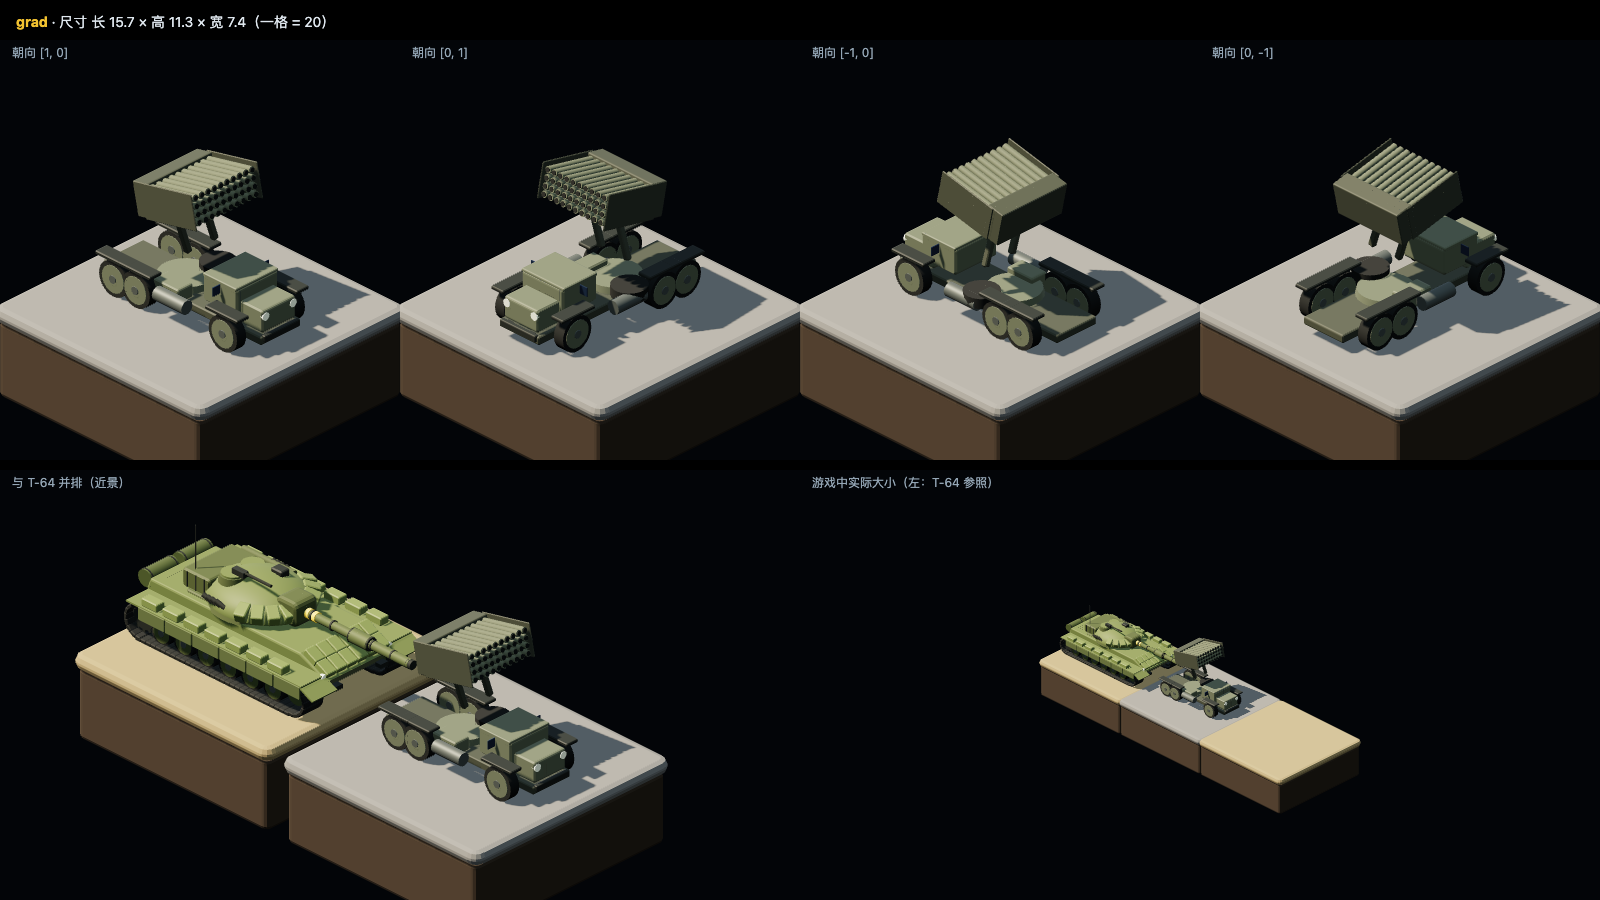
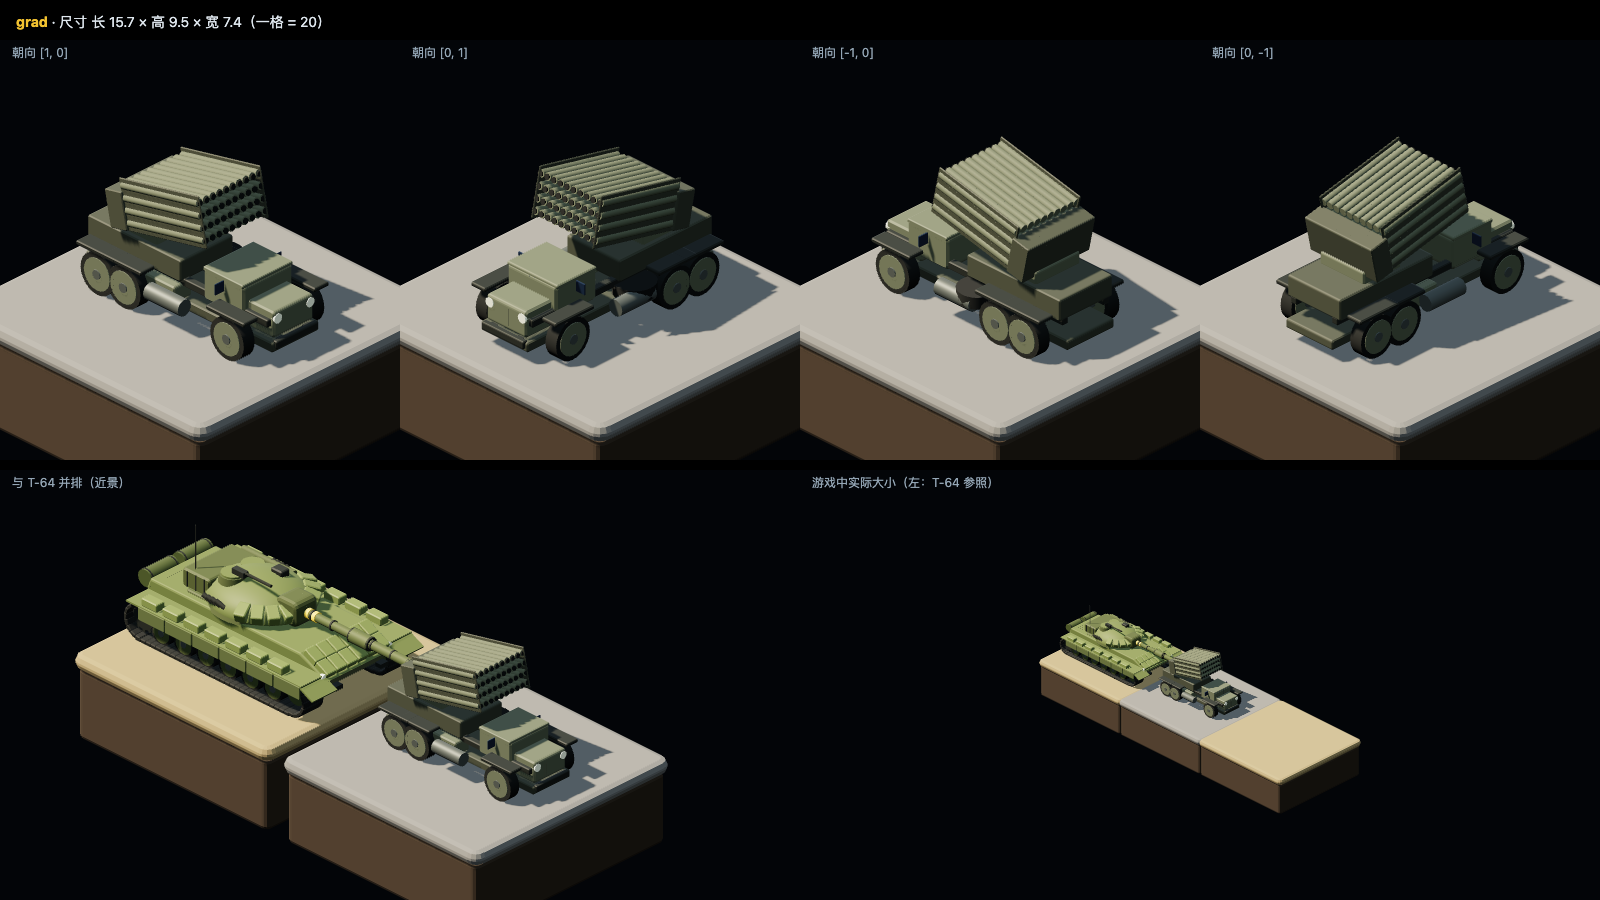
T-24: 第 2 轮修改（发射架压低到车台、管组缩小、补车架大梁）

diff --git a/game/js/models3d.js b/game/js/models3d.js
@@ -668,18 +668,18 @@ function m3Grad() {
   part(T, rbox(2.3, 0.95, 1.5, 0.1, 1), OL, -0.75, 1.95, 1.9);
   // 5. fuel tanks: horizontal cylinders on both sides
   for (const s of [-1, 1]) part(T, cyl(0.55, 0.55, 2.9, 16), STEEL, 0.4, 1.9, s * 3.15, 0, 0, HALF_PI);
-  // 6. launch rack in the turret group: turntable, tall A-frame, 40-tube block raised 12°
-  const Tu = new THREE.Group(); Tu.name = 'turret'; Tu.position.set(-1.4, 1.6, 0); T.add(Tu);
-  part(Tu, cyl(2.05, 2.15, 0.5, 26), OL, 0, 0.25, 0);
-  for (const s of [-1, 1]) part(Tu, rbox(0.3, 5.0, 0.5, 0.08, 1), OD, 0.75, 5.15, s * 1.3, 0.32, 0, 0);
-  part(Tu, cyl(0.18, 0.18, 3.0, 12), STEEL, 0.6, 7.45, 0, 0, 0, HALF_PI);
-  const BL = new THREE.Group(); BL.position.set(0.6, 7.55, 0); BL.rotation.z = 0.21; Tu.add(BL);
+  // 6. launch rack in the turret group: low turntable on the rear deck, 40-tube block raised 12°
+  const Tu = new THREE.Group(); Tu.name = 'turret'; T.add(Tu);
+  for (const s of [-1, 1]) part(Tu, rbox(14.6, 0.4, 0.5, 0.06, 1), DKS, 0.2, 2.6, s * 1.7);
+  part(Tu, rbox(7.6, 1.3, 4.4, 0.08, 1), OD, -3.3, 3.45, 0);
+  part(Tu, rbox(2.9, 0.8, 3.7, 0.1, 1), OL, -3.3, 4.5, 0);
+  const BL = new THREE.Group(); BL.position.set(-3.35, 4.9, 0); BL.rotation.z = 0.21; Tu.add(BL);
   for (let i = 0; i < 4; i++) for (let j = 0; j < 10; j++) {
-    part(BL, cyl(0.26, 0.26, 4.8, 12), OL, 1.0, (i - 1.5) * 0.62, (j - 4.5) * 0.62, 0, 0, HALF_PI);
-    part(BL, cyl(0.19, 0.19, 0.1, 10), mat3('#1a1c18', 0.8), 3.42, (i - 1.5) * 0.62, (j - 4.5) * 0.62, 0, 0, HALF_PI);
+    part(BL, cyl(0.26, 0.26, 6.5, 12), OL, 3.25, (i - 1.5) * 0.8 + 1.6, (j - 4.5) * 0.55, 0, 0, HALF_PI);
+    part(BL, cyl(0.19, 0.19, 0.1, 10), mat3('#1a1c18', 0.8), 6.55, (i - 1.5) * 0.8 + 1.6, (j - 4.5) * 0.55, 0, 0, HALF_PI);
   }
-  for (const s of [-1, 1]) part(BL, rbox(5.0, 2.7, 0.12, 0.05, 1), OD, 1.0, 0, s * 3.25);
-  part(BL, rbox(1.4, 2.6, 6.4, 0.06, 1), OD, -1.7, 0, 0);
+  for (const s of [-1, 1]) part(BL, rbox(6.7, 3.3, 0.12, 0.05, 1), OD, 3.25, 1.6, s * 2.55);
+  part(BL, rbox(1.3, 2.4, 5.6, 0.06, 1), OD, -0.65, 1.2, 0);
   return T;
 }
 MODEL3D.grad = m3Grad;

diff --git a/docs/tasks/T-24-精修BM-21冰雹.md b/docs/tasks/T-24-精修BM-21冰雹.md
@@ -71,6 +71,23 @@
 
 需审查方决定的问题：炮口高度实测 9.85，比卡片目标 8.2 高约 1.6（原因与修法见上），请定夺。
 
+**第 2 轮（执行方：ZCode）**
+
+按第 1 轮审查意见逐条修改：
+1. **发射架落地**：删除高 A 形架与高转盘；改为后部车台上的矮转盘座（高 0.8，直接压在车台平板上，顶面 y ≈ 4.9），发射管组从转盘上以 12° 抬起；管口中心实测世界坐标约 **(3.4, 7.95, 0)**——落在审查方给的 7.5~8.2 区间内。
+2. **管组缩小**：管长 4.8 → 6.5（约 3 米档），宽 6.2 → 4.95（比车身 5.0 略窄），高 2.48 → 3.2（4 排）；管径不变 0.26。
+3. **底盘可见**：驾驶室后到车尾加两根贯穿车架大梁（深色，y 2.6 车轮上方高度）+ 一块后部车台平板（转盘座压在其上）。
+
+自测：
+- `node tools/check.js`：✓ 语法（19 个文件）；✓ 范围（仅 models3d.js）。
+- `node tools/playtest.js /tmp/pt-T-24r2`：`ERRORS none`，退出码 0。
+- `node tools/shot3d.js /tmp/s3-T-24r2`：`SHOT3D OK`，退出码 0；`model-shot` grad：`MODEL OK`。
+- `grad.png` 重拍并逐张目检：管组低低压在驾驶室后的车台上，顶面仅略高于驾驶室，底盘大梁与车台可见，无悬空。
+
+另：第 1 轮执行记录追加时产生的重复"审查意见"标题已注意到，本轮及之后的追加不再新增标题。
+
+需审查方决定的问题：无。
+
 ## 审查意见（审查方写）
 
 ## 审查意见（审查方写）
